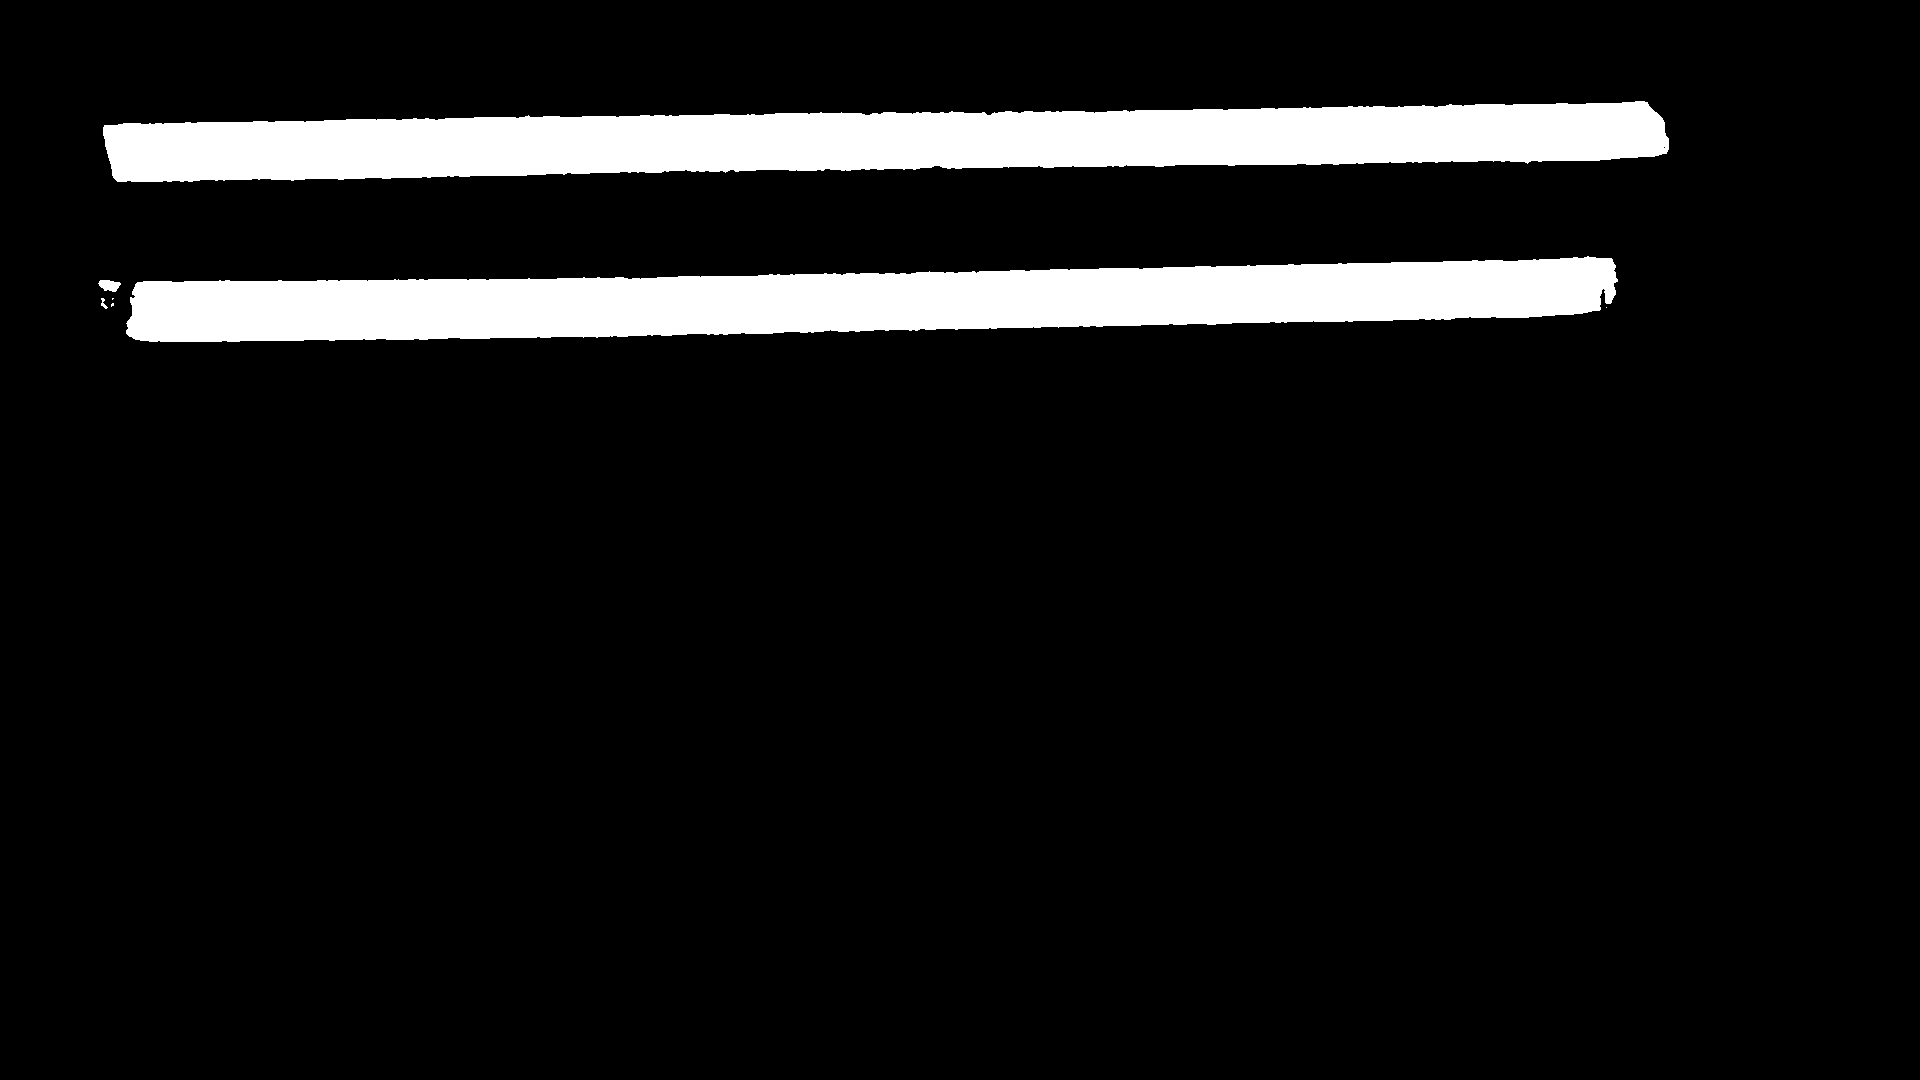
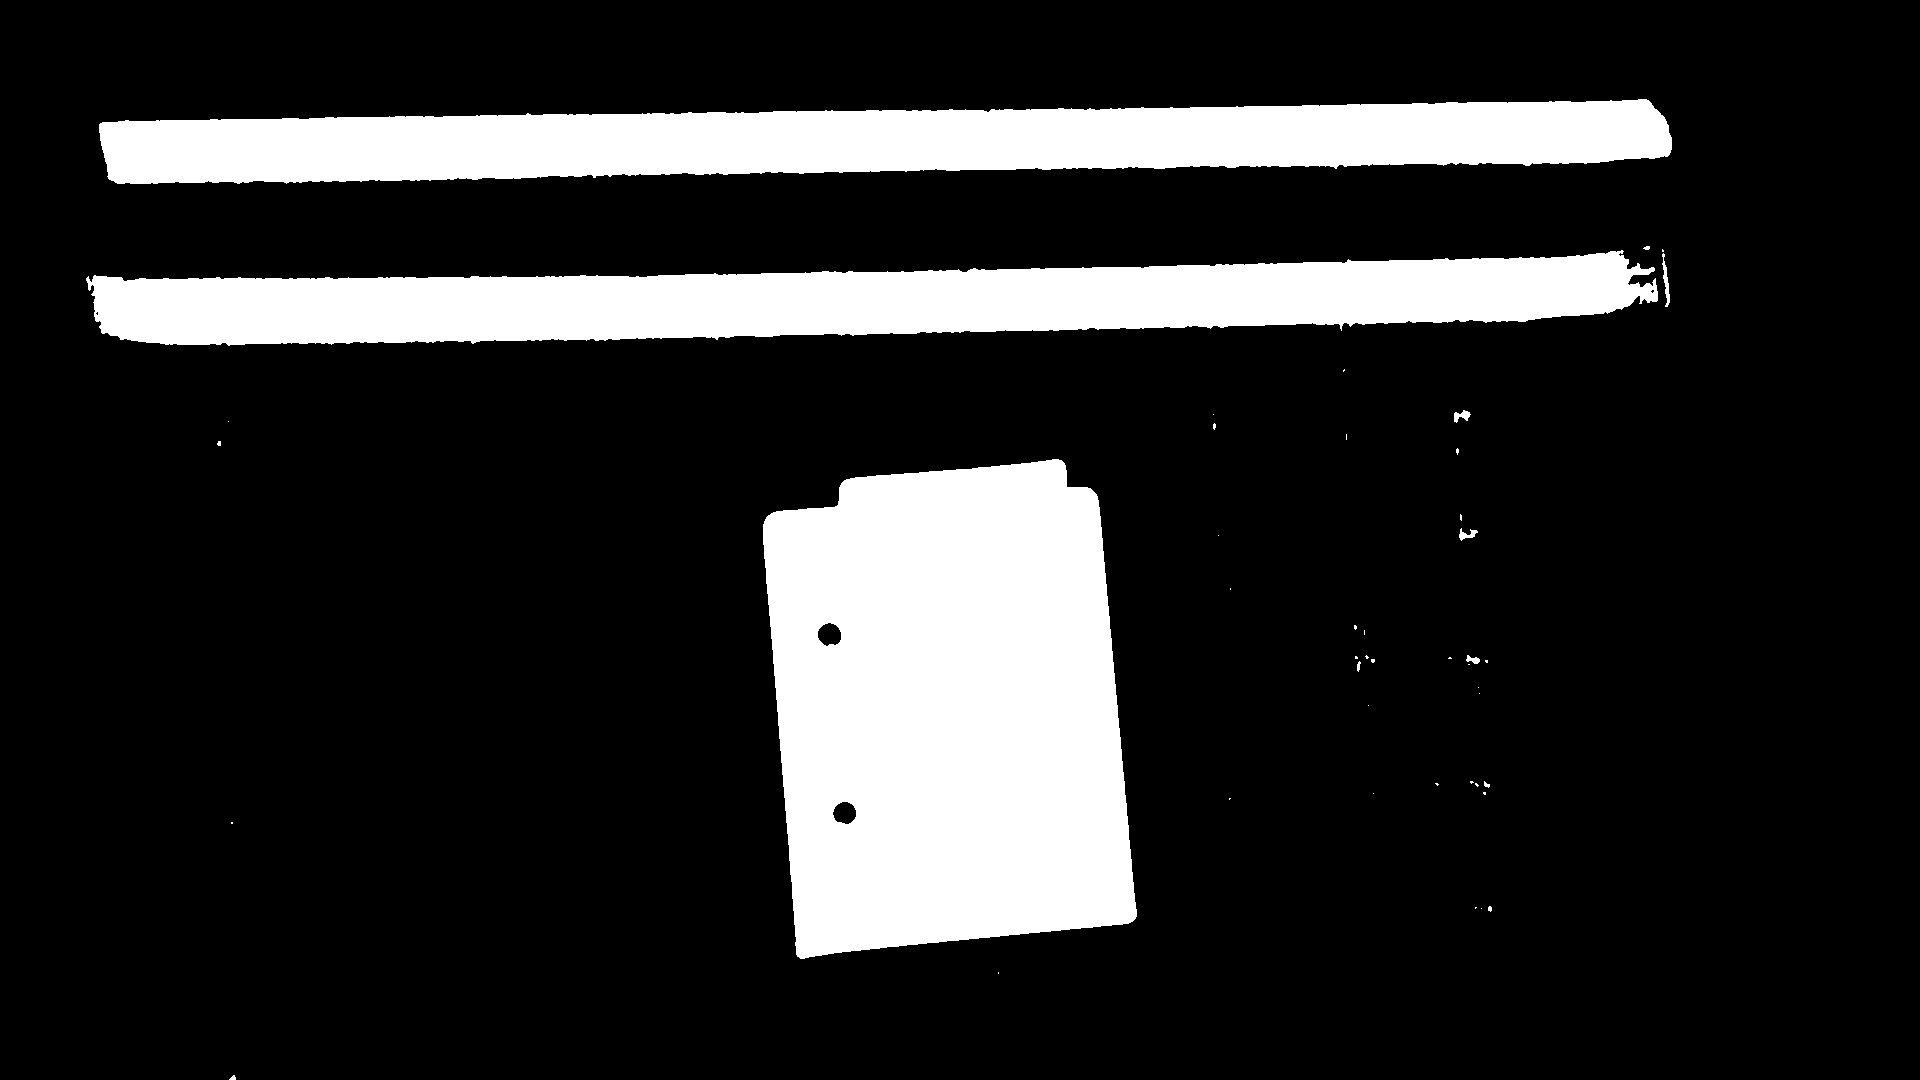
new tesing image added

diff --git a/segmentation.py b/segmentation.py
@@ -5,7 +5,7 @@ import os
 path = r'/Users/lukeyin/Desktop/Research/Optical-Localization/input_img'
 output_dir = r'/Users/lukeyin/Desktop/Research/Optical-Localization/output_img'
 
-img = cv2.imread(path + '/photo2.png')
+img = cv2.imread(path + '/photo.png')
 
 # Apply blur filter to "smoothen" the edges
 img = cv2.GaussianBlur(img, (7, 7), 0)
